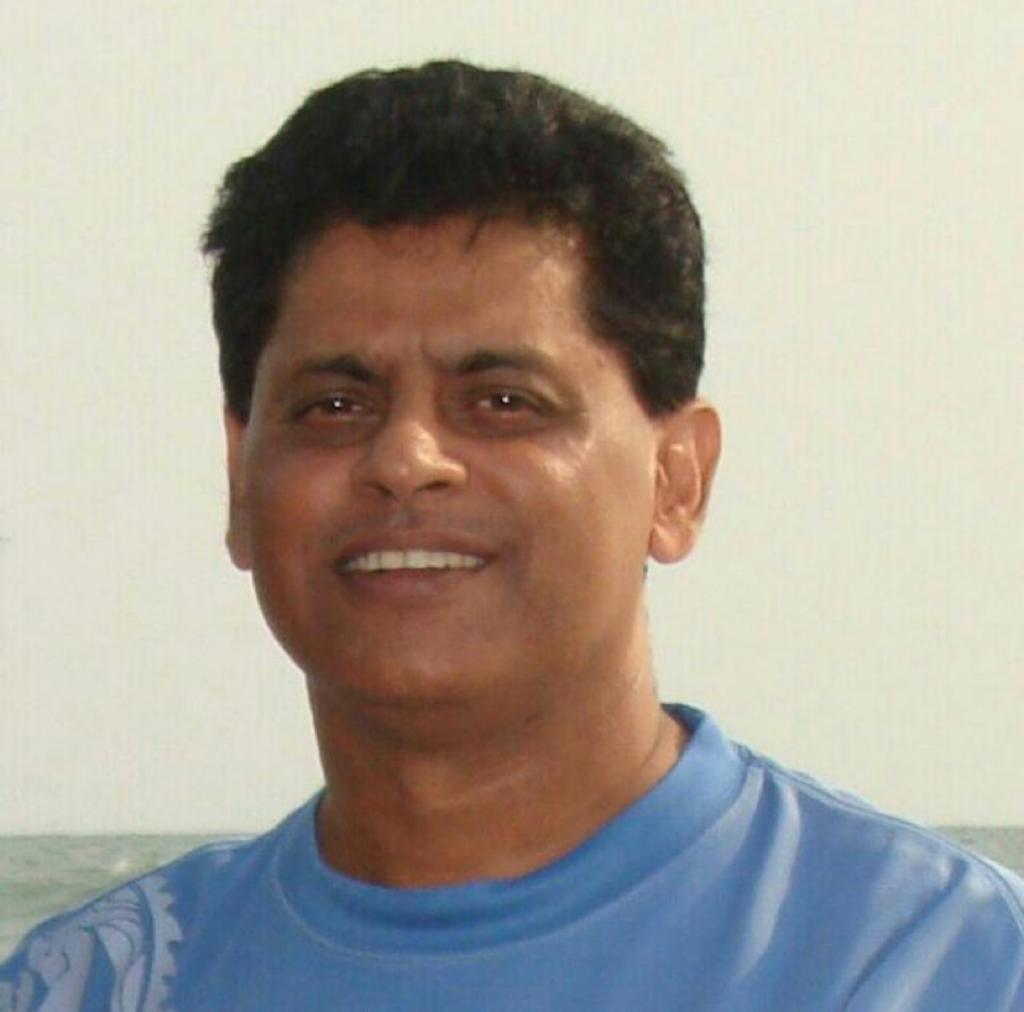
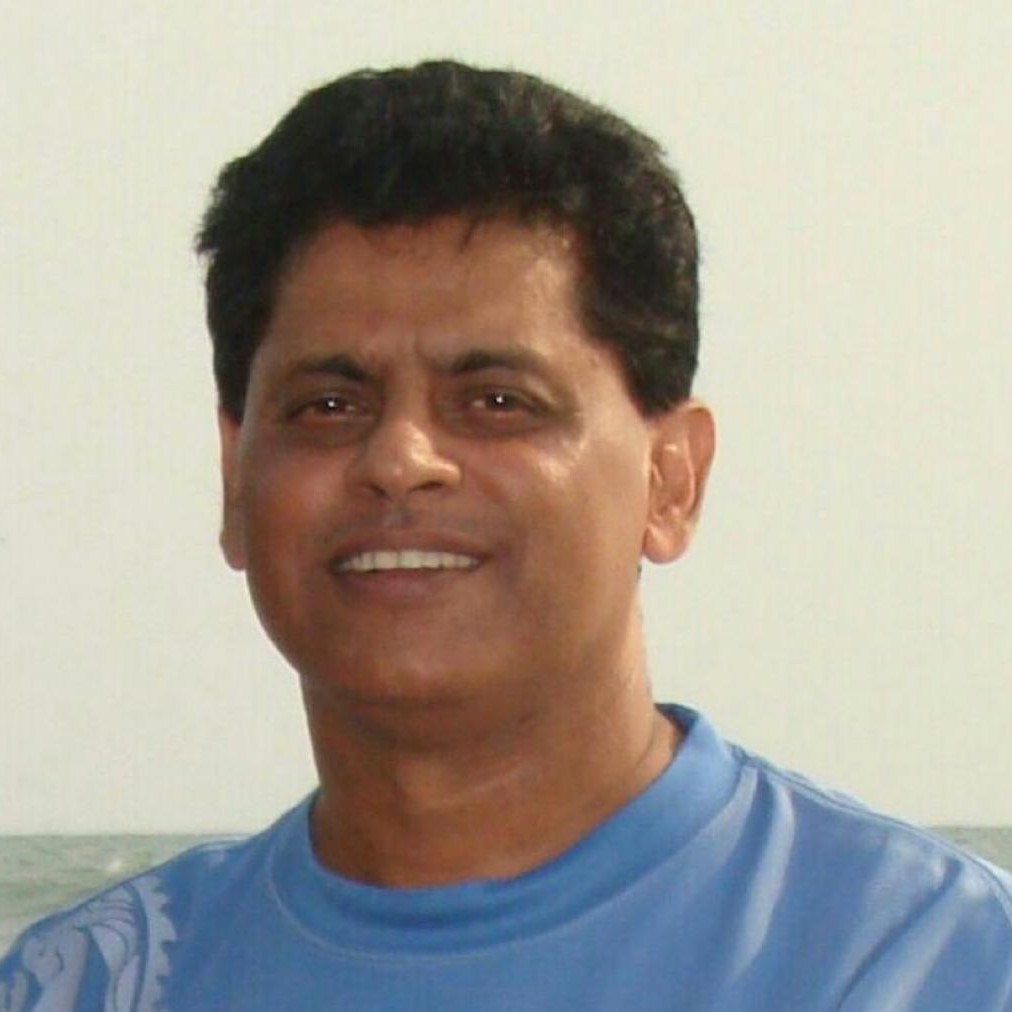
Added Jay Rane Pic And Changed Bullet point error

diff --git a/inspirus/Pages/Event/CodePlay/index.html b/inspirus/Pages/Event/CodePlay/index.html
@@ -53,16 +53,14 @@
         <div class="lg:col-span-2">
 
             <h3 class="font-IBMPlexSerif font-black text-2xl">Eligibility</h3>
-            <ul class="font-lioppins font-thin lg:w-[60%] list-disc list-inside"><li>Undergraduate and Diploma Students from all professional and non-</li>
-                <li>professional institutions as well as students from Higher Secondary Schools</li>
+            <ul class="font-lioppins font-thin lg:w-[60%] list-disc list-inside"><li>Undergraduate and Diploma Students from all professional and non-professional institutions as well as students from Higher Secondary Schools</li>
                 <li>Skills required:</li>
                 <li>Coders: Knowledge of C or C++</li>
                 <li>Players: Speed, Hand-eye coordination, Agility, Creativity, Promptness</li></ul>
 
             <h3 class="mt-4 font-IBMPlexSerif font-black text-2xl">Rules</h3>
             <ul class="font-poppins font-thin lg:w-[70%] list-disc list-inside">
-                <li>The students participating should be from the same institution (Interdepartmental</li>
-                <li>teams allowed).</li>
+                <li>The students participating should be from the same institution (Interdepartmental teams allowed).</li>
                 <li>A PC with Microsoft Visual Studio installed for C/C++ will be provided to each team.</li>
                 <li>This event will have the teams of 2 participants each divided as coders and players. So each team will comprise of coder and a player.</li>
 
@@ -153,7 +151,7 @@ Team Members: 2 PER TEAM (MAXIMUM 20 TEAMS)</p>
                         </div>
                     </div>
                     <div class="grid grid-cols-3 ">
-                        <img src="" alt=""
+                        <img src="/Assets/Members/Jay Rane.jpg" alt=""
                             class="w-48 aspect-square">
                         <div class="col-span-2 ml-2 flex flex-col justify-between">
                             <div>
